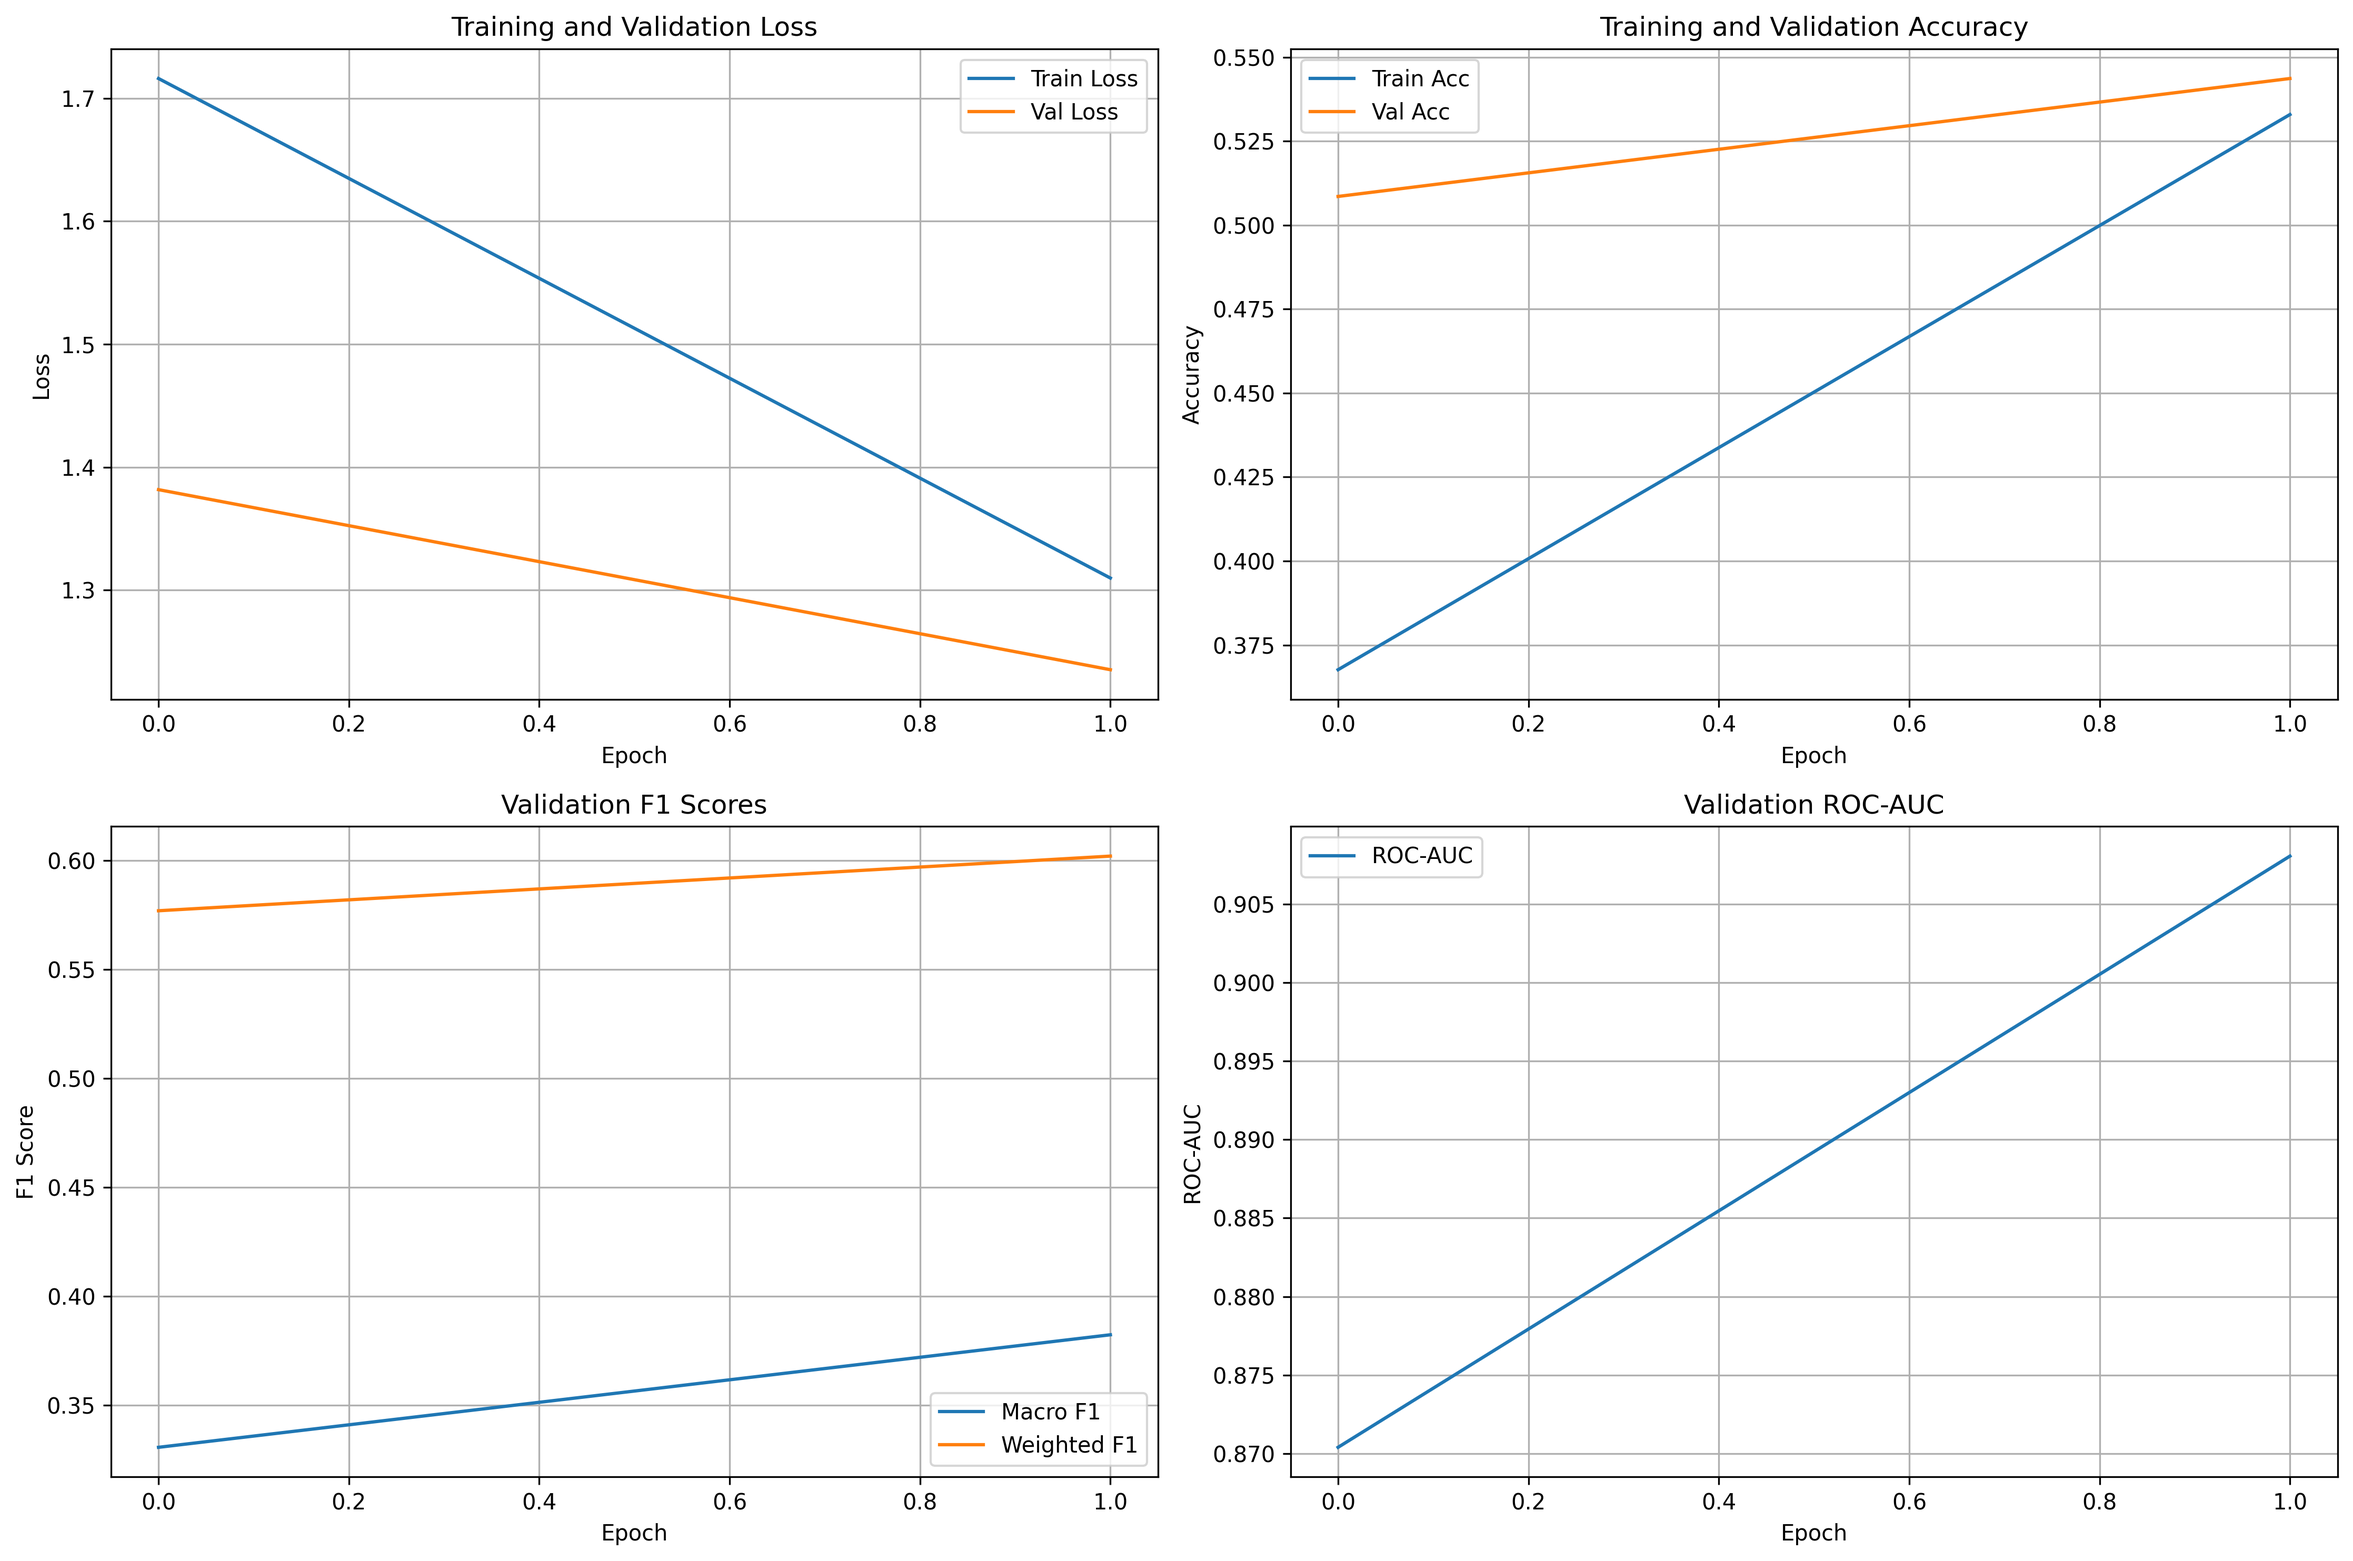
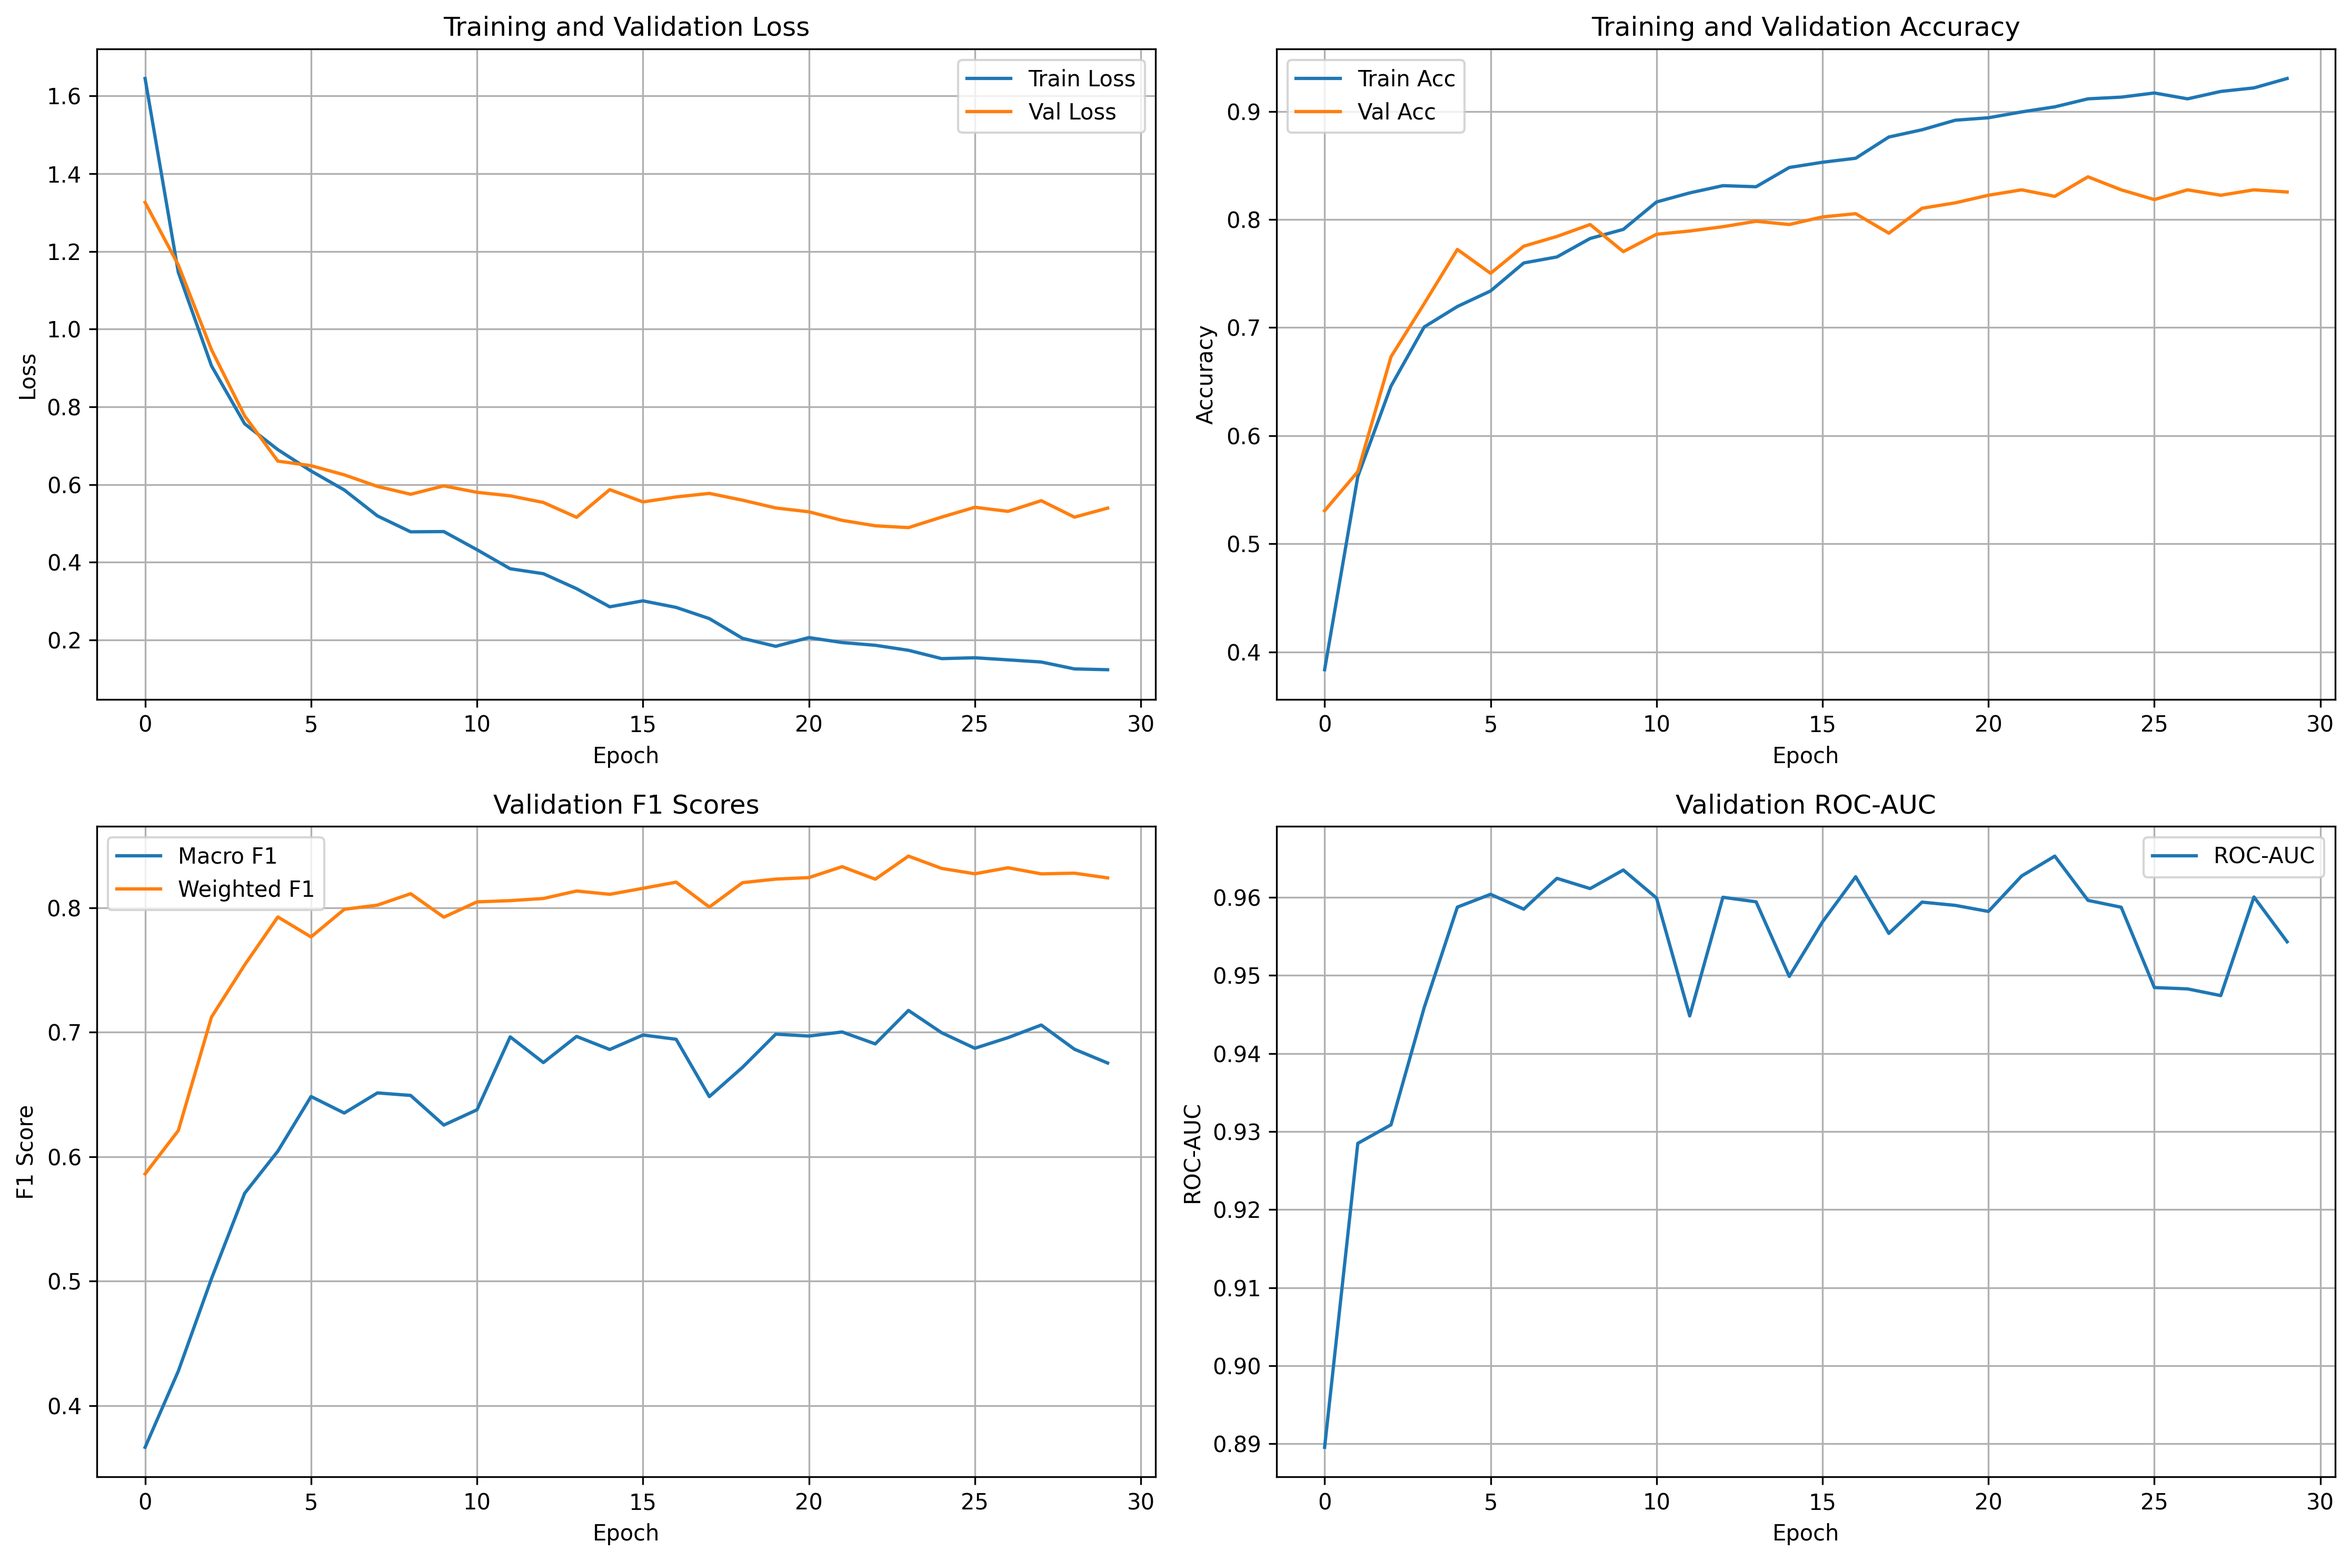
Add files via upload

diff --git a/model.py b/model.py
@@ -34,7 +34,7 @@ class Config:
     
     # Training
     BATCH_SIZE = 32
-    EPOCHS = 70
+    EPOCHS = 30
     LEARNING_RATE = 1e-4
     WEIGHT_DECAY = 1e-5
     
